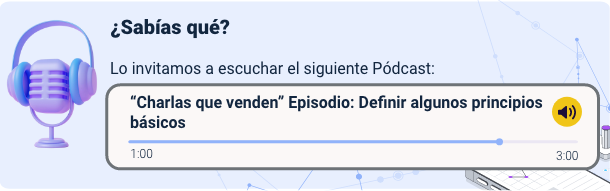
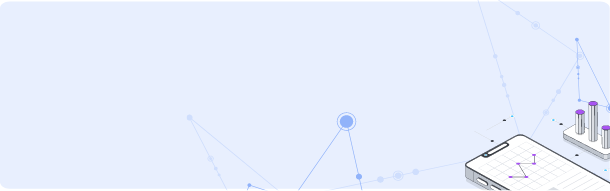
Tema 3

Changed region(s): [[0.0, 0.1047, 0.9967, 0.9162], [0.8098, 0.6021, 0.841, 0.6283]]

diff --git a/src/views/Tema3.vue b/src/views/Tema3.vue
@@ -5,7 +5,195 @@
     .titulo-principal.color-acento-contenido
       .titulo-principal__numero
         span 3
-      h1 Tema 3
+      h1 Métricas web
+    
+    img(src="@/assets/curso/tema3/1.png", alt="", data-aos="zoom-in-down")  
+    .row.justify-content-center.z-2
+      .col-lg-10.p-4
+        div.banner-text.shadow.bg-terciario-t10
+          p.mb-0 Medir el desempeño digital es clave para comprender cómo interactúan los usuarios con una marca y para tomar decisiones estratégicas basadas en datos reales. Las métricas web permiten evaluar la efectividad de campañas, identificar oportunidades de mejora, optimizar el tráfico y la conversión, y garantizar que los objetivos digitales se cumplan de manera eficiente. 
+
+    separador
+
+    #t_3_1.titulo-segundo.color-acento-contenido(data-aos="flip-up")
+      h2 3.1 Métricas e indicadores (KPI)  
+
+    .row.justify-content-center.align-items-center.mb-4
+      .col-sm-8.col-lg-4
+        figure
+          img.mb-4.mb-lg-0(src="@/assets/curso/tema3/2.png", alt="" data-aos="zoom-in-down")
+      .col-lg-8
+        p Los indicadores clave de rendimiento (KPI, key performance indicators) son métricas cuantitativas utilizadas para evaluar el desempeño de acciones, procesos o campañas en entornos digitales. Permiten medir resultados de manera objetiva y determinar si las estrategias implementadas están generando los efectos esperados. 
+        .bg-terciario-t10.p-4.rounded-4.py-3
+          p.mb-0 Para que un KPI sea realmente útil, debe cumplir con los criterios SMART: ser específico, medible, alcanzable, relevante y estar definido en un periodo de tiempo determinado. Esto facilita el seguimiento continuo y el ajuste oportuno de las estrategias digitales. 
+
+    .row.justify-content-center.align-items-center.mb-4.z-2
+      .col-lg-7
+        p La importancia de los KPI radica en su capacidad para ofrecer información clara sobre el cumplimiento de los objetivos establecidos. A través de estos indicadores es posible identificar oportunidades de mejora, detectar debilidades en campañas o procesos y orientar la asignación de recursos hacia acciones más efectivas.  
+        .bg-secundario-s5.p-4.rounded-4.py-3.mb-4.mb-lg-0
+          p.mb-0 Además, proporcionan una base sólida para realizar ajustes en tiempo real, lo que permite mantener la competitividad y mejorar el desempeño general de la organización en el entorno digital. 
+      .col-sm-8.col-lg-5
+        figure
+          img(data-aos="fade-down-right", src="@/assets/curso/tema3/3.png", alt="")
+    
+    .row.justify-content-center.align-items-center.mb-4.z-2
+      .col-sm-6.col-lg-4.d-none.d-lg-block
+        figure
+          img.mb-4.mb-lg-0(src="@/assets/curso/tema3/4.png", alt="" data-aos="zoom-in-down")
+      .col-lg-8
+        p En el ámbito web, los KPI pueden clasificarse en diferentes categorías según el tipo de resultado que evalúan. Los KPI de tráfico miden el alcance del sitio, incluyendo indicadores como visitantes únicos, páginas vistas y tasa de rebote.
+        .bg-contenido-a5.p-4.rounded-4.py-3
+          p.mb-0 Los KPI de interacción analizan el nivel de participación del usuario, considerando métricas como clics, tiempo de permanencia en la página y descargas de contenido. Por su parte, los KPI de conversión evalúan la efectividad en la generación de acciones de valor, como la captación de leads, compras o suscripciones.  
+ 
+    p.mb-4.z-2 Finalmente, los KPI de rendimiento de campañas permiten medir la eficacia de acciones publicitarias mediante indicadores como el CTR (Click through rate) y el retorno de inversión (ROI) digital. 
+
+    .fullwidth-bg.fullwidth-bg--2
+    .titulo-sexto.color-acento-contenido.mb-4.z-2
+      h5 Figura 3.
+      span Categorías de KPI web
+    img.d-sm-none.z-2(data-aos="fade-up", src="@/assets/curso/tema3/5-mob.png", alt="La figura presenta una clasificación de indicadores clave de desempeño (KPI) utilizados para medir y analizar los resultados de sitios web y estrategias digitales. Estos indicadores permiten evaluar aspectos relacionados con la atracción de visitantes, su interacción con los contenidos, el cumplimiento de objetivos comerciales y el desempeño de las campañas. Su análisis facilita identificar oportunidades de mejora, optimizar las acciones digitales y apoyar la toma de decisiones orientadas a fortalecer la experiencia y relación con el cliente. ")
+    img.d-none.d-sm-block.z-2(data-aos="fade-up", src="@/assets/curso/tema3/5.png", alt="La figura presenta una clasificación de indicadores clave de desempeño (KPI) utilizados para medir y analizar los resultados de sitios web y estrategias digitales. Estos indicadores permiten evaluar aspectos relacionados con la atracción de visitantes, su interacción con los contenidos, el cumplimiento de objetivos comerciales y el desempeño de las campañas. Su análisis facilita identificar oportunidades de mejora, optimizar las acciones digitales y apoyar la toma de decisiones orientadas a fortalecer la experiencia y relación con el cliente. ")
+
+    separador
+
+    #t_3_2.titulo-segundo.color-acento-contenido(data-aos="flip-up")
+      h2 3.2 Tráfico y conversión 
+
+    img(src="@/assets/curso/tema3/6.png", alt="", data-aos="zoom-in-down")  
+    .row.justify-content-center.z-2
+      .col-lg-10.p-4
+        div.banner-text.shadow.bg-terciario-t10.mb-3
+          p.mb-0 La conversión indica cuántos de los visitantes de un sitio web realizan una acción de valor, como una compra, un registro, una descarga o una suscripción. Analizar el tráfico junto con la conversión permite comprender no solo cuántas personas ingresan al sitio, sino también qué tan efectivo es para lograr resultados. Esta medición ayuda a detectar posibles obstáculos en el proceso, mejorar el desempeño de las estrategias digitales y aprovechar mejor los recursos disponibles. 
+    
+    .row.justify-content-center.align-items-center.mb-4.mb-lg-5.z-2
+      .col-lg-8
+        p El análisis del tráfico y la conversión también permite identificar cuáles canales y contenidos generan mejores resultados. Con esta información, la empresa puede enfocar sus esfuerzos en las campañas que ofrecen mayor retorno de inversión (ROI) y ajustar aquellas que no están cumpliendo los objetivos. Además, facilita la segmentación del público y la personalización de la experiencia digital, aumentando las probabilidades de éxito. 
+        .bg-primario-p5.p-4.rounded-4.py-3
+          p.mb-0 Existen diferentes tipos de tráfico web. El tráfico orgánico proviene de buscadores sin necesidad de pago; el tráfico pagado se obtiene mediante anuncios en buscadores o redes sociales; el tráfico directo corresponde a usuarios que escriben la dirección web en el navegador; y el tráfico referido proviene de enlaces ubicados en otros sitios web. Cada tipo aporta información clave sobre el origen de los visitantes y el rendimiento de las estrategias digitales implementadas. 
+      .col-sm-8.col-lg-4.d-none.d-lg-block
+        figure
+          img(data-aos="fade-down-right", src="@/assets/curso/tema3/7.png", alt="")
+    
+    .fullwidth-bg.fullwidth-bg--2
+    .titulo-sexto.color-acento-contenido.mb-4.z-2
+      h5 Figura 4.
+      span Tipos de tráfico 
+    img.mb-5.d-sm-none.z-2(data-aos="fade-up", src="@/assets/curso/tema3/9-mob.png", alt="La figura presenta las principales formas en que los usuarios pueden llegar a un sitio web o plataforma digital. Mediante una clasificación visual, diferencia las visitas generadas por buscadores, anuncios, acceso directo y enlaces provenientes de otros sitios. Esta información permite comprender el origen del tráfico digital, analizar el comportamiento de los usuarios y evaluar qué canales contribuyen a atraer clientes potenciales, apoyando la toma de decisiones y el mejoramiento de las estrategias de atención y comunicación digital.")
+    img.mb-5.d-none.d-sm-block.z-2(data-aos="fade-up", src="@/assets/curso/tema3/9.png", alt="La figura presenta las principales formas en que los usuarios pueden llegar a un sitio web o plataforma digital. Mediante una clasificación visual, diferencia las visitas generadas por buscadores, anuncios, acceso directo y enlaces provenientes de otros sitios. Esta información permite comprender el origen del tráfico digital, analizar el comportamiento de los usuarios y evaluar qué canales contribuyen a atraer clientes potenciales, apoyando la toma de decisiones y el mejoramiento de las estrategias de atención y comunicación digital.")
+    
+    .row.justify-content-center.align-items-center.mb-4.mb-lg-5.z-2
+      .col-sm-8.col-lg-4.d-none.d-lg-block
+        figure
+          img.mb-4.mb-lg-0(src="@/assets/curso/tema3/10.png", alt="" data-aos="zoom-in-down")
+      .col-lg-8
+        .bg-contenido-a10.p-4.rounded-4.py-3.mb-3
+          .row.justify-content-center.align-items-center
+            .col-lg-4
+              p.mb-4.mb-lg-0 La tasa de conversión (Conversion rate, CR) se calcula como: 
+            .col-lg-8
+              figure
+                img(src="@/assets/curso/tema3/8.svg", alt="")
+        .bg-img.bg-img--3.p-4.rounded-4
+          .row.justify-content-center.align-items-center
+            .col-lg-5.col-xl-4
+              p.mb-4.mb-lg-0.ps-xl-3 #[strong Ejemplo práctico:] Un sitio de #[em e-commerce] recibe 20,000 visitantes al mes y 1,500 realizan compras. Su tasa de conversión es: 
+            .col-lg-7.col-xl-6
+              figure
+                img(src="@/assets/curso/tema3/11.svg", alt="")
+            .col-lg-2.d-none.d-xl-block
+              figure
+                img.imgw-110(src="@/assets/curso/tema2/3.png", alt="")
+
+    .row.justify-content-center.align-items-center.mb-4.mb-lg-5.z-2
+      .col-lg-8
+        p Esto indica que el 7,5% del tráfico se convierte en ventas. La empresa puede trabajar en optimizar páginas de productos, promociones y UX para aumentar esta tasa. 
+        .bg-secundario-s5.p-4.rounded-4.py-3.mb-4.mb-lg-0
+          p.mb-0 El análisis de las métricas de conversión permite evaluar qué tan efectivo es un sitio web para transformar visitantes en acciones concretas de valor. Estas métricas orientan decisiones estratégicas enfocadas en mejorar resultados comerciales y optimizar la experiencia digital. 
+      .col-sm-8.col-lg-4
+        figure
+          img(data-aos="fade-down-right", src="@/assets/curso/tema3/12.png", alt="")
+    
+    .fullwidth-bg.fullwidth-bg--2
+    .row.justify-content-center.mb-4.z-2
+      .col-xl-10
+        .titulo-sexto.color-acento-contenido.mb-4
+          h5 Tabla 1.
+          span Métricas de conversión y acciones estratégicas 
+        .tabla-a.color-acento-contenido.tabla-a--text-left.mb-2
+          table
+            thead
+              tr(style="background-color: #F3F6FE")
+                th Métrica 
+                th Definición 
+                th Ejemplo práctico 
+                th Acción estratégica 
+            tbody
+              tr(style="background-color: #E8EFFE")
+                td #[strong Tasa de conversión]
+                td % de visitantes que realizan la acción deseada 
+                td 7,5% de visitantes compran 
+                td Mejorar landing page y experiencia de usuario
+              tr
+                td #[strong Leads generados]
+                td Número de registros de clientes potenciales 
+                td 300 leads capturados por formulario 
+                td Campañas de seguimiento y lead nurturing 
+              tr(style="background-color: #E8EFFE")
+                td #[strong Carrito abandonado]
+                td % de usuarios que no completan la compra 
+                td 25% de carritos abandonados 
+                td Envío de recordatorios y ofertas 
+              tr
+                td #[strong Descargas]
+                td Número de recursos descargados 
+                td 500 ebooks descargados 
+                td Optimizar contenido gratuito para captación 
+        figcaption Nota. Adaptada de Chunir Panjon et al., (2024). 
+
+
+    .row.justify-content-center.align-items-center.mb-4.mb-lg-5.z-2
+      .col-lg-6
+        .bg-img.bg-img--4.p-4.p-xl-5.rounded-4.mb-4.mb-lg-0
+          p.mb-4 #[strong Ejemplo práctico integral]. Una empresa de software analiza tráfico y conversión: 
+          .row.justify-content-center.align-items-center
+            .col-xl-9
+              ul.lista-ul--color.mb-0
+                li.mb-0
+                  i.lista-ul__vineta
+                  | 15.000 visitantes orgánicos, 5.000 pagados. 
+                li.mb-0
+                  i.lista-ul__vineta
+                  | 2.000 registros en formularios (leads). 
+                li.mb-0
+                  i.lista-ul__vineta
+                  | 1,000 descargas del ebook promocional. 
+                li.mb-0
+                  i.lista-ul__vineta
+                  | Tasa de conversión global: 10%. 
+            .col-lg-3.d-none.d-xl-block
+              figure
+                img(src="@/assets/curso/tema2/3.png", alt="")
+      .col-lg-6
+        p Con esta información, ajusta campañas pagadas, mejora páginas de aterrizaje y optimiza la oferta de contenido gratuito para aumentar la conversión de visitantes en leads y clientes. 
+        .bg-audio.rounded-4.p-4
+          .row.align-items-center.justify-content-center
+            .col-8.col-sm-3
+              figure
+                img.imgw-95.mb-4.mb-sm-0(src="@/assets/curso/common/mic.png", alt="")
+            .col-sm-9
+              p A continuación, se invita a ir al siguiente podcast: 
+              TarjetaAudio.mb-3(
+                texto="“Charlas que venden” Episodio: “Métricas web”"
+                tiempo
+                :audio="require_src('@/assets/curso/podcast/podcast1.mp3')"
+                @audio-hover="mostrarIndicadorTarjetaAudio = false")
+
+
+
+
+
+
+ 
 
 </template>
 

diff --git a/src/styles/_custom.sass b/src/styles/_custom.sass
@@ -84,6 +84,8 @@ figcaption, table caption
   background-color: $color-acento-contenido-a20
 .bg-sistema-h
   background-color: $color-sistema-h
+.bg-contenido-a5
+  background-color: $color-acento-contenido-a5
 
 .bg-img
   background-size: cover
@@ -103,6 +105,11 @@ figcaption, table caption
     @media screen and (min-width: $bp-min-xl)
       background-color: transparent
       background-image: url('../assets/curso/common/bg-5.png')
+  &--4
+    background-color: $color-acento-contenido-a10
+    @media screen and (min-width: $bp-min-xl)
+      background-color: transparent
+      background-image: url('../assets/curso/common/bg-6.png')
 
 .imgw-50
   width: 50px
@@ -253,3 +260,17 @@ figcaption, table caption
   position: absolute
   top: -80px
   left: 0
+
+.tarjeta-audio
+  background-color: $white
+  &__texto
+    color: $color-sistema-texto !important
+
+  .tarjeta-audio__input input[type=range]
+    background-color: $color-acento-contenido !important
+
+  .audio__btn
+    background-color: $color-acento-botones !important
+
+  &__tiempo
+    color: $color-sistema-texto !important

diff --git a/src/styles/_variables.sass b/src/styles/_variables.sass
@@ -64,6 +64,7 @@ $color-secundario-s20: #DBB9FA
 $color-terciario: #DEE9F0
 $color-terciario-t10: #F1F6F9
 $color-acento-contenido: #91B3FA
+$color-acento-contenido-a5: #F3F6FE
 $color-acento-contenido-a10: #E8EFFE
 $color-acento-contenido-a20: #D2E0FD
 $color-acento-botones: #F0C518

diff --git a/src/views/Tema2.vue b/src/views/Tema2.vue
@@ -6,6 +6,7 @@
       .titulo-principal__numero
         span 2
       h1 Cliente digital
+    
     img(src="@/assets/curso/tema2/1.png", alt="", data-aos="zoom-in-down")  
     .row.justify-content-center.z-2
       .col-lg-10.p-4

diff --git a/src/styles/basicos/_tipografias.sass b/src/styles/basicos/_tipografias.sass
@@ -324,4 +324,4 @@
     @extend .lista-ul
     li
       > i:first-of-type
-        color: $color-acento-contenido
+        color: $color-secundario
